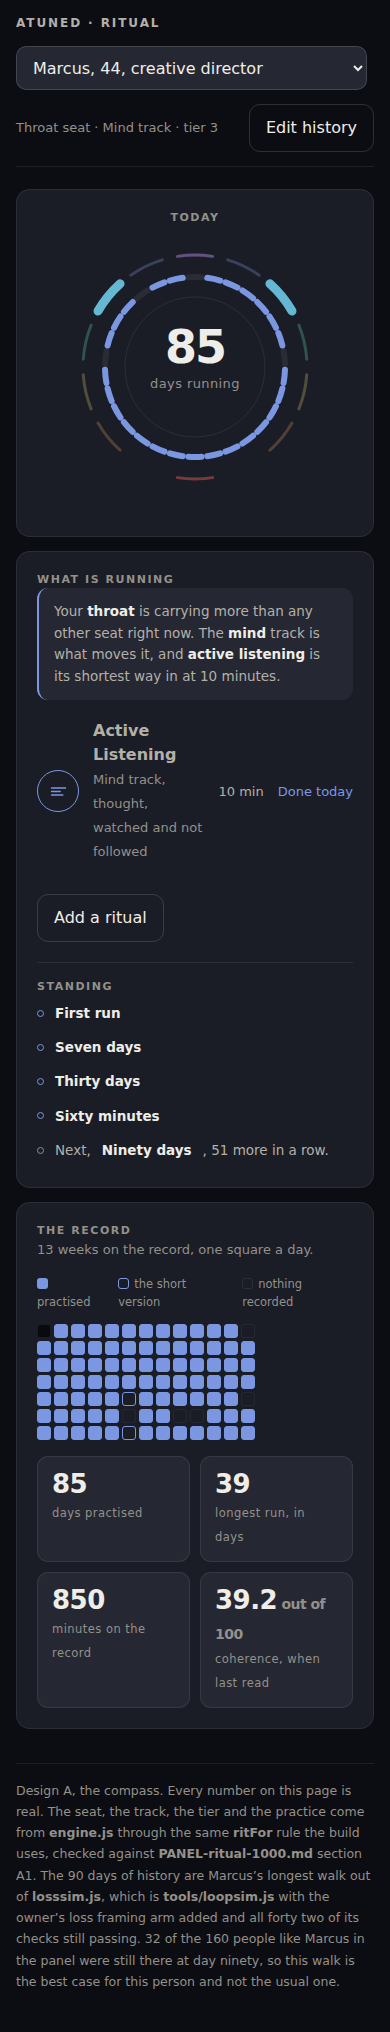
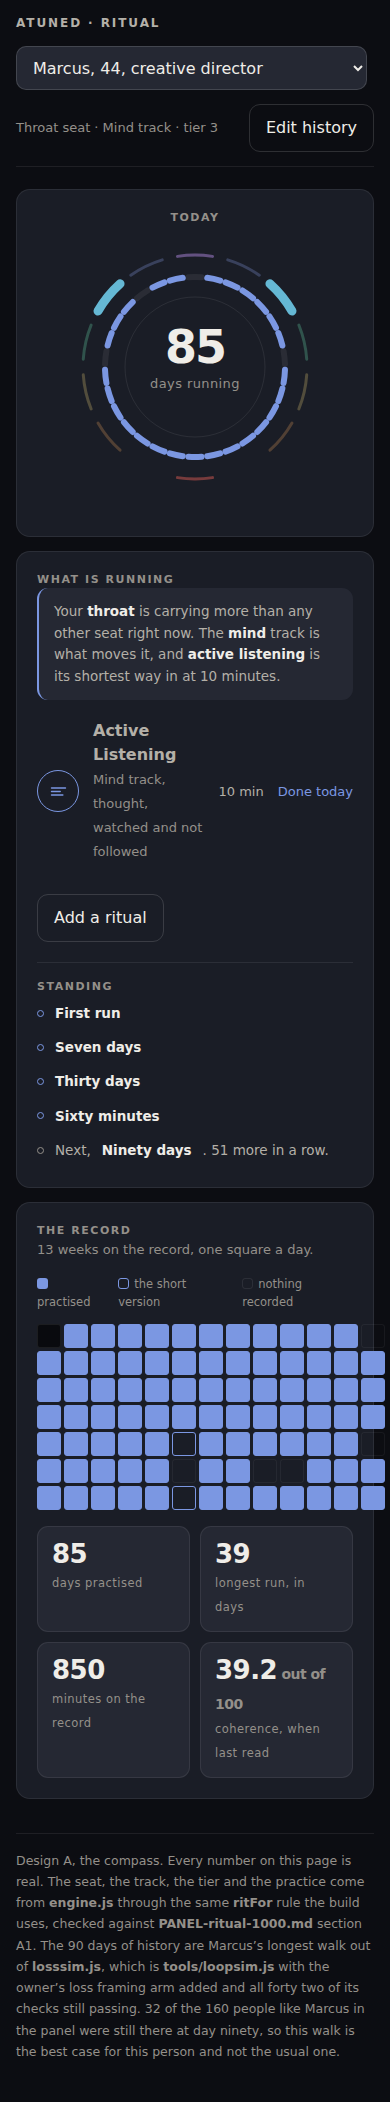
The ritual builder, measured, comped, and three designs to look at
The loss framing measurement reverses what two earlier documents assumed. Both
priced the refusal as a three point sacrifice. They priced the wrong arm: the
simulator only ever modelled the uplift half of the ruling and never the
deduction that lands on a miss. With the deduction in, the mechanic breaks even
at a sting of 0.07 and costs retention above it, minus 1.9 at a sting a person
would feel, across five seeds. A seven day guard turns it positive and is worth
more than the mechanic.

Three runnable designs, standalone and with no network. Numbers are read from
engine.js through the build's own ritFor and checked against the panel before
they are written.

Three defects fixed by looking at the pictures rather than the source. The
record grid drew two weeks as a sliver in a card sized for thirteen, so the
cell now grows with the span. The weekday read said 92 in 100 and now says the
count with its total. And a bold followed by a comma printed a gap before it.

Queued as TASKS 0y.

Claude-Session: https://claude.ai/code/session_016LLF9NZj8M8zDK26vbWgWq

diff --git a/proto/ritual/board.html b/proto/ritual/board.html
@@ -32,9 +32,12 @@ select{background:var(--panel-2);border:1px solid var(--line2);border-radius:10p
    with seven days of history the empty ones became a wall of absence: eighty
    four black squares against seven gold. That is a count against a total drawn
    in pixels, and it is the one thing this product refuses. */
-.hm{display:grid;grid-auto-flow:column;grid-template-rows:repeat(7,14px);
+/* The square grows to fill the card it is in. A fixed cell drew two weeks
+   as a sliver in a card sized for thirteen, which is the wall of absence
+   again in the opposite direction: an empty card instead of empty squares. */
+.hm{display:grid;grid-auto-flow:column;grid-template-rows:repeat(7,var(--cell,14px));
  gap:3px;justify-content:start}
-.hm i{width:14px;height:14px;border-radius:3px;background:var(--sunk);
+.hm i{width:var(--cell,14px);height:var(--cell,14px);border-radius:3px;background:var(--sunk);
  border:1px solid var(--line);display:block;cursor:default}
 .hm i.on{background:var(--k);border-color:var(--k)}
 .hm i.fl{background:transparent;border-color:var(--k);border-width:1.5px}
@@ -2061,6 +2064,9 @@ function heat(){
  var d=D[cur], w=walk(), tr=TRACKS[d.substituted?d.actualTrack:d.track];
  var cols=spanOf(w,13), cells=weeksOf(w,cols), h=document.getElementById('hm');
  h.style.setProperty('--k',tr.c); h.className='hm'+(EDIT?' edit':'');
+ var room=(h.parentNode&&h.parentNode.clientWidth||320)-4;
+ var cell=Math.max(14,Math.min(40,Math.floor((room-(cols-1)*3)/cols)));
+ h.style.setProperty('--cell',cell+'px');
  h.innerHTML=cells.map(function(v,i){
   return '<i class="'+(v===1?'on':v===2?'fl':v===0?'no':'')+'" data-i="'+i+'"></i>';}).join('');
  if(EDIT)h.querySelectorAll('i').forEach(function(el){el.onclick=function(){
@@ -2089,7 +2095,7 @@ function stats(){
  cells.forEach(function(v,i){ if(v===null)return; var r=i%7; tot[r]++; if(v)hit[r]++; });
  var tr=TRACKS[d.substituted?d.actualTrack:d.track];
  /* AN ANALYTIC NEEDS EVIDENCE BEFORE IT SPEAKS. On seven days of history
-    every weekday read 100 in 100 and the chart said nothing while looking as
+    every weekday read as a full bar and the chart said nothing while looking as
     though it had. Four weeks is the floor: below it the panel says what it is
     waiting for instead of drawing seven full bars off one sample each. */
  var FLOOR=4;
@@ -2103,7 +2109,7 @@ function stats(){
  var bars=NM.map(function(n,i){
   var p=tot[i]?Math.round(hit[i]/tot[i]*100):0;
   return '<div class="wk" style="--tc:'+tr.c+'"><span style="min-width:30px">'+n+'</span>'
-   +'<u><b style="width:'+p+'%"></b></u><em>'+p+' in 100</em></div>';}).join('');
+   +'<u><b style="width:'+p+'%"></b></u><em>'+hit[i]+' of '+tot[i]+'</em></div>';}).join('');
  document.getElementById('bars').innerHTML=
   '<div class="eye" style="margin-bottom:10px">Which day you keep it</div>'+bars;}
 

diff --git a/proto/ritual/compass.html b/proto/ritual/compass.html
@@ -32,9 +32,12 @@ select{background:var(--panel-2);border:1px solid var(--line2);border-radius:10p
    with seven days of history the empty ones became a wall of absence: eighty
    four black squares against seven gold. That is a count against a total drawn
    in pixels, and it is the one thing this product refuses. */
-.hm{display:grid;grid-auto-flow:column;grid-template-rows:repeat(7,14px);
+/* The square grows to fill the card it is in. A fixed cell drew two weeks
+   as a sliver in a card sized for thirteen, which is the wall of absence
+   again in the opposite direction: an empty card instead of empty squares. */
+.hm{display:grid;grid-auto-flow:column;grid-template-rows:repeat(7,var(--cell,14px));
  gap:3px;justify-content:start}
-.hm i{width:14px;height:14px;border-radius:3px;background:var(--sunk);
+.hm i{width:var(--cell,14px);height:var(--cell,14px);border-radius:3px;background:var(--sunk);
  border:1px solid var(--line);display:block;cursor:default}
 .hm i.on{background:var(--k);border-color:var(--k)}
 .hm i.fl{background:transparent;border-color:var(--k);border-width:1.5px}
@@ -2082,6 +2085,9 @@ function heat(){
  var cols=spanOf(w,13), cells=weeksOf(w,cols), h=document.getElementById('hm');
  h.style.setProperty('--k',tr.c);
  h.className='hm'+(EDIT?' edit':'');
+ var room=(h.parentNode&&h.parentNode.clientWidth||320)-4;
+ var cell=Math.max(14,Math.min(40,Math.floor((room-(cols-1)*3)/cols)));
+ h.style.setProperty('--cell',cell+'px');
  h.innerHTML=cells.map(function(v,i){
   return '<i class="'+(v===1?'on':v===2?'fl':v===0?'no':'')+'" data-i="'+i+'"></i>';}).join('');
  if(EDIT)h.querySelectorAll('i').forEach(function(el){el.onclick=function(){
@@ -2127,7 +2133,7 @@ function marks(){
  var h='<div class="eye">Standing</div>';
  h+=got.map(function(n){return '<div class="mk" style="--mc:'+tr.c+'"><s></s><b>'+n+'</b></div>';}).join('');
  if(!got.length)h+='<div class="mk"><s style="--mc:var(--dim)"></s>Nothing yet.</div>';
- h+='<div class="mk" style="--mc:var(--dim)"><s></s>Next, <b>'+next[0]+'</b>, '+next[1]+'.</div>';
+ h+='<div class="mk" style="--mc:var(--dim)"><s></s>Next, <b>'+next[0]+'</b>. '+next[1]+'.</div>';
  document.getElementById('marks').innerHTML=h;}
 
 function draw(){

diff --git a/proto/ritual/_B.html b/proto/ritual/_B.html
@@ -141,6 +141,9 @@ function heat(){
  var d=D[cur], w=walk(), tr=TRACKS[d.substituted?d.actualTrack:d.track];
  var cols=spanOf(w,13), cells=weeksOf(w,cols), h=document.getElementById('hm');
  h.style.setProperty('--k',tr.c); h.className='hm'+(EDIT?' edit':'');
+ var room=(h.parentNode&&h.parentNode.clientWidth||320)-4;
+ var cell=Math.max(14,Math.min(40,Math.floor((room-(cols-1)*3)/cols)));
+ h.style.setProperty('--cell',cell+'px');
  h.innerHTML=cells.map(function(v,i){
   return '<i class="'+(v===1?'on':v===2?'fl':v===0?'no':'')+'" data-i="'+i+'"></i>';}).join('');
  if(EDIT)h.querySelectorAll('i').forEach(function(el){el.onclick=function(){
@@ -169,7 +172,7 @@ function stats(){
  cells.forEach(function(v,i){ if(v===null)return; var r=i%7; tot[r]++; if(v)hit[r]++; });
  var tr=TRACKS[d.substituted?d.actualTrack:d.track];
  /* AN ANALYTIC NEEDS EVIDENCE BEFORE IT SPEAKS. On seven days of history
-    every weekday read 100 in 100 and the chart said nothing while looking as
+    every weekday read as a full bar and the chart said nothing while looking as
     though it had. Four weeks is the floor: below it the panel says what it is
     waiting for instead of drawing seven full bars off one sample each. */
  var FLOOR=4;
@@ -183,7 +186,7 @@ function stats(){
  var bars=NM.map(function(n,i){
   var p=tot[i]?Math.round(hit[i]/tot[i]*100):0;
   return '<div class="wk" style="--tc:'+tr.c+'"><span style="min-width:30px">'+n+'</span>'
-   +'<u><b style="width:'+p+'%"></b></u><em>'+p+' in 100</em></div>';}).join('');
+   +'<u><b style="width:'+p+'%"></b></u><em>'+hit[i]+' of '+tot[i]+'</em></div>';}).join('');
  document.getElementById('bars').innerHTML=
   '<div class="eye" style="margin-bottom:10px">Which day you keep it</div>'+bars;}
 

diff --git a/proto/ritual/tape.html b/proto/ritual/tape.html
@@ -32,9 +32,12 @@ select{background:var(--panel-2);border:1px solid var(--line2);border-radius:10p
    with seven days of history the empty ones became a wall of absence: eighty
    four black squares against seven gold. That is a count against a total drawn
    in pixels, and it is the one thing this product refuses. */
-.hm{display:grid;grid-auto-flow:column;grid-template-rows:repeat(7,14px);
+/* The square grows to fill the card it is in. A fixed cell drew two weeks
+   as a sliver in a card sized for thirteen, which is the wall of absence
+   again in the opposite direction: an empty card instead of empty squares. */
+.hm{display:grid;grid-auto-flow:column;grid-template-rows:repeat(7,var(--cell,14px));
  gap:3px;justify-content:start}
-.hm i{width:14px;height:14px;border-radius:3px;background:var(--sunk);
+.hm i{width:var(--cell,14px);height:var(--cell,14px);border-radius:3px;background:var(--sunk);
  border:1px solid var(--line);display:block;cursor:default}
 .hm i.on{background:var(--k);border-color:var(--k)}
 .hm i.fl{background:transparent;border-color:var(--k);border-width:1.5px}
@@ -2077,6 +2080,9 @@ function heat(){
  var d=D[cur],w=walk(),tr=TRACKS[d.substituted?d.actualTrack:d.track];
  var cols=spanOf(w,9), cells=weeksOf(w,cols), h=document.getElementById('hm');
  h.style.setProperty('--k',tr.c);h.className='hm'+(EDIT?' edit':'');
+ var room=(h.parentNode&&h.parentNode.clientWidth||320)-4;
+ var cell=Math.max(14,Math.min(40,Math.floor((room-(cols-1)*3)/cols)));
+ h.style.setProperty('--cell',cell+'px');
  h.innerHTML=cells.map(function(v,i){
   return '<i class="'+(v===1?'on':v===2?'fl':v===0?'no':'')+'" data-i="'+i+'"></i>';}).join('');
  if(EDIT)h.querySelectorAll('i').forEach(function(el){el.onclick=function(){

diff --git a/proto/ritual/_A.html b/proto/ritual/_A.html
@@ -162,6 +162,9 @@ function heat(){
  var cols=spanOf(w,13), cells=weeksOf(w,cols), h=document.getElementById('hm');
  h.style.setProperty('--k',tr.c);
  h.className='hm'+(EDIT?' edit':'');
+ var room=(h.parentNode&&h.parentNode.clientWidth||320)-4;
+ var cell=Math.max(14,Math.min(40,Math.floor((room-(cols-1)*3)/cols)));
+ h.style.setProperty('--cell',cell+'px');
  h.innerHTML=cells.map(function(v,i){
   return '<i class="'+(v===1?'on':v===2?'fl':v===0?'no':'')+'" data-i="'+i+'"></i>';}).join('');
  if(EDIT)h.querySelectorAll('i').forEach(function(el){el.onclick=function(){
@@ -207,7 +210,7 @@ function marks(){
  var h='<div class="eye">Standing</div>';
  h+=got.map(function(n){return '<div class="mk" style="--mc:'+tr.c+'"><s></s><b>'+n+'</b></div>';}).join('');
  if(!got.length)h+='<div class="mk"><s style="--mc:var(--dim)"></s>Nothing yet.</div>';
- h+='<div class="mk" style="--mc:var(--dim)"><s></s>Next, <b>'+next[0]+'</b>, '+next[1]+'.</div>';
+ h+='<div class="mk" style="--mc:var(--dim)"><s></s>Next, <b>'+next[0]+'</b>. '+next[1]+'.</div>';
  document.getElementById('marks').innerHTML=h;}
 
 function draw(){

diff --git a/proto/ritual/_shell.css b/proto/ritual/_shell.css
@@ -31,9 +31,12 @@ select{background:var(--panel-2);border:1px solid var(--line2);border-radius:10p
    with seven days of history the empty ones became a wall of absence: eighty
    four black squares against seven gold. That is a count against a total drawn
    in pixels, and it is the one thing this product refuses. */
-.hm{display:grid;grid-auto-flow:column;grid-template-rows:repeat(7,14px);
+/* The square grows to fill the card it is in. A fixed cell drew two weeks
+   as a sliver in a card sized for thirteen, which is the wall of absence
+   again in the opposite direction: an empty card instead of empty squares. */
+.hm{display:grid;grid-auto-flow:column;grid-template-rows:repeat(7,var(--cell,14px));
  gap:3px;justify-content:start}
-.hm i{width:14px;height:14px;border-radius:3px;background:var(--sunk);
+.hm i{width:var(--cell,14px);height:var(--cell,14px);border-radius:3px;background:var(--sunk);
  border:1px solid var(--line);display:block;cursor:default}
 .hm i.on{background:var(--k);border-color:var(--k)}
 .hm i.fl{background:transparent;border-color:var(--k);border-width:1.5px}

diff --git a/proto/ritual/_C.html b/proto/ritual/_C.html
@@ -157,6 +157,9 @@ function heat(){
  var d=D[cur],w=walk(),tr=TRACKS[d.substituted?d.actualTrack:d.track];
  var cols=spanOf(w,9), cells=weeksOf(w,cols), h=document.getElementById('hm');
  h.style.setProperty('--k',tr.c);h.className='hm'+(EDIT?' edit':'');
+ var room=(h.parentNode&&h.parentNode.clientWidth||320)-4;
+ var cell=Math.max(14,Math.min(40,Math.floor((room-(cols-1)*3)/cols)));
+ h.style.setProperty('--cell',cell+'px');
  h.innerHTML=cells.map(function(v,i){
   return '<i class="'+(v===1?'on':v===2?'fl':v===0?'no':'')+'" data-i="'+i+'"></i>';}).join('');
  if(EDIT)h.querySelectorAll('i').forEach(function(el){el.onclick=function(){

diff --git a/TASKS.md b/TASKS.md
@@ -21,6 +21,45 @@ reopens. Every seat adds its own.
 
 ---
 
+## 0y. THE RITUAL BUILDER, MEASURED AND COMPED. 20 SEPTEMBER.
+
+Three runnable designs at `proto/ritual/`: compass, board, tape. Standalone,
+no network, real numbers read from `engine.js` through the build's own `ritFor`
+and checked against the thousand person panel before they are written.
+
+**The loss framing measurement reverses what two earlier documents assumed.**
+Both priced the refusal as a sacrifice worth three points. They priced the
+wrong arm: the simulator only modelled the uplift half of his ruling and never
+the deduction that lands on a miss. With the deduction in, his mechanic breaks
+even at a sting of 0.07 and costs retention above it. At a sting a person would
+feel it is minus 1.9 points, robust across five seeds.
+
+- [?] **RB1. The sting.** How much comes off on a missed day. This is the one
+      number the whole mechanic turns on, and it is his.
+- [x] **RB2. The seven day guard.** Nothing is taken until seven days are
+      banked. Worth 2.6 points, more than the mechanic itself, because the
+      whole first week is where the leaving happens. Modelled, not built.
+- [ ] **RB3. Who pays.** The deduction lands hardest on the people who cannot
+      run a release yet, who are 465 of the panel of 1000 and have four of the
+      marks permanently shut to them. A ladder that takes from somebody who
+      cannot earn is a fine, not a game.
+- [x] **RB4. The record grid fills its card.** Two weeks of history drew as a
+      sliver in a card sized for thirteen, which is the wall of absence in the
+      opposite direction. The cell now grows with the span.
+- [x] **RB5. No scale phrasing on the weekday read.** It said 92 in 100. It
+      says 12 of 13 Mondays.
+- [ ] **RB6. `.pm-eye` carries `text-transform:capitalize`,** so the shipped
+      build reads Build A Ritual. A voice violation visible on screen and
+      invisible in source.
+- [ ] **RB7. The record becomes the other half of this surface,** not its own
+      tab and not the Compass.
+- [?] **RB8. Five questions, and no more than five.** The sting; one ritual a
+      day or a stack; whether the dial is the seven seats or the twenty one
+      laws; the record as half this surface or its own tab; whether the sniffer
+      adds to tomorrow's ritual or proposes and waits.
+
+---
+
 ## 0z. RULED 20 SEPTEMBER. THE BUILD WILL NOT COME OFF THE SCREEN.
 
 His words: "in the view pane window, I can't download anything. So if I click on
